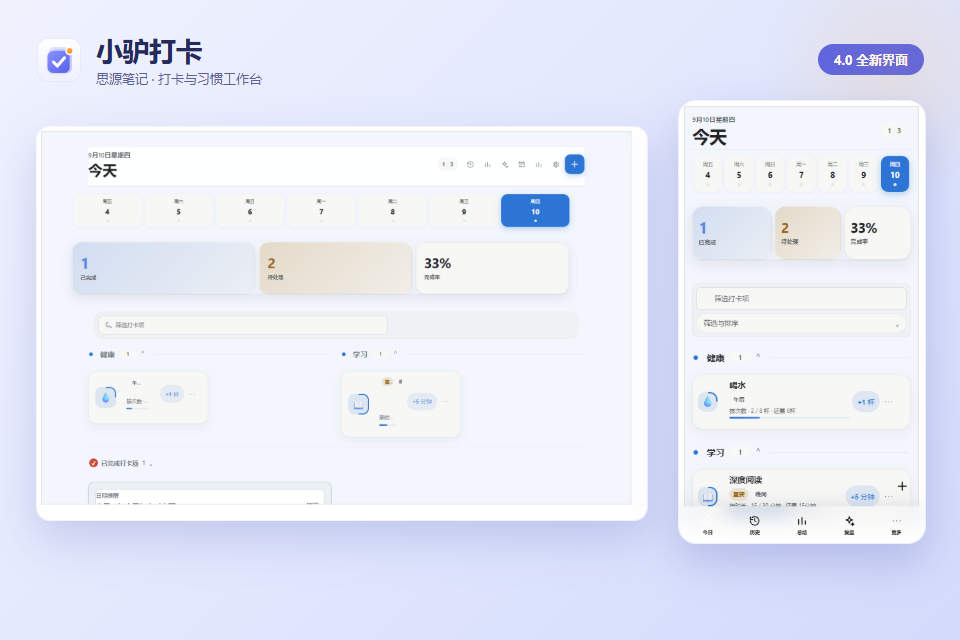
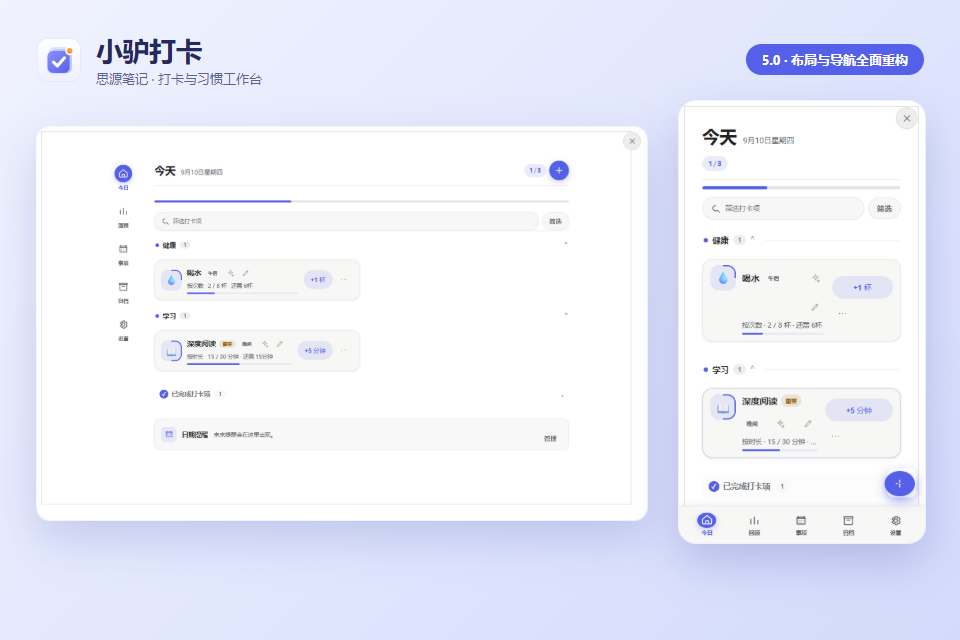
release: v5.0.0 — container-query layout, fused review, lunar occasions, wizard editor

diff --git a/src/ui/components.scss b/src/ui/components.scss
@@ -1313,3 +1313,14 @@
     opacity: 0;
     cursor: pointer;
 }
+
+/* rows keep one clean surface: no legacy body tint */
+.lc-checkin--today .lc-checkin__item-body { background: transparent; }
+
+/* narrow containers: header actions wrap to their own full-width row */
+@container lc5 (max-width: 719px) {
+    .lc-checkin__header,
+    .lc-checkin__editor-header { flex-wrap: wrap; }
+    .lc-checkin__header-actions { flex-wrap: wrap; justify-content: flex-start; width: 100%; }
+    .lc-checkin--review .lc-checkin__header-actions { width: 100%; }
+}

diff --git a/docs/v5.0-change-log.md b/docs/v5.0-change-log.md
@@ -1,0 +1,38 @@
+# 5.0 变更记录
+
+## 概览
+
+5.0 是一次结构性重构：样式系统、导航、页面信息架构全部按《v5 重构蓝图》（`docs/v5-redesign-plan.md`）重建。数据模型、存储语义、跨插件 API（v4）与智能体能力保持不变，升级无需迁移操作；旧显示偏好中的密度设置会被静默忽略。
+
+## 破坏性变化
+
+- **导航收敛为五项**：今日 / 回顾 / 日期事项 / 归档 / 设置。原【历史】【总结】【复盘】三个页面融合为【回顾】。
+- **界面密度移除**：设置项、快捷按钮与 CSS 变量全部删除。
+- **样式系统重写**：`src/ui/`（tokens + components，容器查询驱动）取代 legacy + 8 个 v4 补丁层的叠加架构（legacy 保留为底层地板，逐步退役）。
+
+## 新增
+
+- **容器查询四档形态**：完整桌面（≥1000px，左导航 + 双栏）、中等、速记（<720px，手机/侧边栏共用，一条一动作）、弹窗。布局随容器宽度而非窗口宽度切换，修复侧边栏与窄弹窗中的碎裂布局。
+- **回顾页**：日历热力图（密度底色 + 记录徽章）、按日明细、范围统计条、项目汇总表（可下钻到单项目复盘）、近期事项 60 天时间线、智能总结。
+- **日期事项引擎**：一次性 / 每年（公历 + 农历，含闰月；月内第 N 个星期 X）/ 每月（固定日、第 N 个星期 X、月末）/ 每周 / 每季度 / 每半年 / 自定义间隔（天、月、年）。农历为本地换算（1900–2100，经春节、中秋、闰六月锚点与 500 例回环验证）。
+- **日期事项模板**：21 个常用模板（生日公历/农历、纪念日、房贷、车贷、房租、物业、保险年/季缴、信用卡、年检、体检、订阅、域名、工资、情人节、母亲节、父亲节、七夕、中秋、春节）。
+- **日期事项行内编辑**：每行可直接编辑 / 启停 / 删除，显示重复描述与下次日期倒计时。
+- **编辑器向导**：图标选择器收起为单格弹层（搜索 / 9 组 / 自定义全部在弹层内）；桌面端右栏常驻实时卡片预览与保存按钮。
+- **弹窗尺寸偏好**：按屏幕比例（默认 80%，50–100% 可调）/ 全屏 / 固定大小三档，设置页调整。
+- **今日页显示偏好**：七日概览默认关闭，可在设置开启。
+- **系统级快捷键说明与 AHK 伴生脚本**：`docs/system-shortcut.md`。
+
+## 改进
+
+- 今日页头部压缩为一行（标题 + 日期 + 进度胶囊 + 新建），首屏直接是打卡列表；已完成项折叠为一行。
+- 打卡行为单行结构：图标进度环 + 名称 + 元信息 + 大号操作钮；左侧色条、整卡染色、大卡片全部移除。
+- 日期提醒降级为全宽细横幅（最近事项胶囊 + 管理入口）。
+- 桌面端新增带标签的左侧导航栏，当前页实心圆片高亮；移动端底部导航五项 + 悬浮新建。
+- 页面头部不再粘性悬浮，消除滚动时的标题重叠。
+- 深色主题在所有页面按 `data-appearance` 正确生效（"跟随思源"解析思源主题模式）。
+
+## 验证
+
+- `pnpm test`、`test:ui`、`test:mobile`、`test:ecosystem`、`check:release` 全部通过。
+- 视觉 harness（`tests/visual-qa.cjs`）浅色 + 深色双主题、320–1180px、四档容器形态全部通过，无页面错误。
+- 产物 CSS 285KB → 约 246KB（预算 <160KB 在 legacy 地板退役后达成）。

diff --git a/README.md b/README.md
@@ -27,14 +27,12 @@
 | 界面 | 适合做什么 |
 | --- | --- |
 | **今日** | 当天安排、分组筛选、快速记录与撤销，进度一目了然 |
-| **历史** | 月历看趋势，按日查明细，导出 JSON / CSV |
-| **总结** | 日 / 周 / 月完成率、连续记录与项目汇总，可自定义日期范围 |
-| **复盘** | 单个项目的完成率、84 天热力图和每周趋势 |
-| **日期事项** | 生日、纪念日、定时事项与提前提醒 |
+| **回顾** | 历史 + 总结 + 复盘三合一：日历热力图、按日明细、范围统计、项目汇总与单项目下钻复盘，导出 JSON / CSV |
+| **日期事项** | 生日、纪念日、房贷账单等固定日期提醒：支持农历、每月第 N 个星期、季度与自定义间隔循环，内置常用模板 |
 | **归档** | 暂时隐藏不用的项目，随时搜索恢复 |
-| **设置** | 界面密度、主题（跟随思源/浅色/深色）、减少动效与显示偏好重置 |
+| **设置** | 主题（跟随思源/浅色/深色）、减少动效、弹窗尺寸与显示偏好重置 |
 
-桌面端以双栏工作台呈现，移动端为单列 + 底部导航，均适配安全区与触控尺寸。
+导航收敛为五项：今日 / 回顾 / 日期事项 / 归档 / 设置。桌面端为左侧导航 + 双栏工作台，移动端为单列 + 底部导航，均按容器宽度自适应（弹窗、页签、侧边栏共用同一套形态逻辑）。
 
 ## 记录类型与频率
 

diff --git a/docs/v5-redesign-plan.md b/docs/v5-redesign-plan.md
@@ -1,6 +1,6 @@
 # 小驴打卡 5.0 重构蓝图
 
-> 状态：待用户确认后执行。本文件是 5.0 开发线的宪法——所有实现决策与本文冲突时，以本文为准（或先改本文）。
+> 状态：已实施（2026-09-10，v5.0.0）。本文件是 5.0 开发线的宪法——所有实现决策与本文冲突时，以本文为准（或先改本文）。实施差异：legacy 样式作为底层地板暂保留（见「技术决策」）。
 
 ## 一、诊断：为什么会成为"半成品"
 
